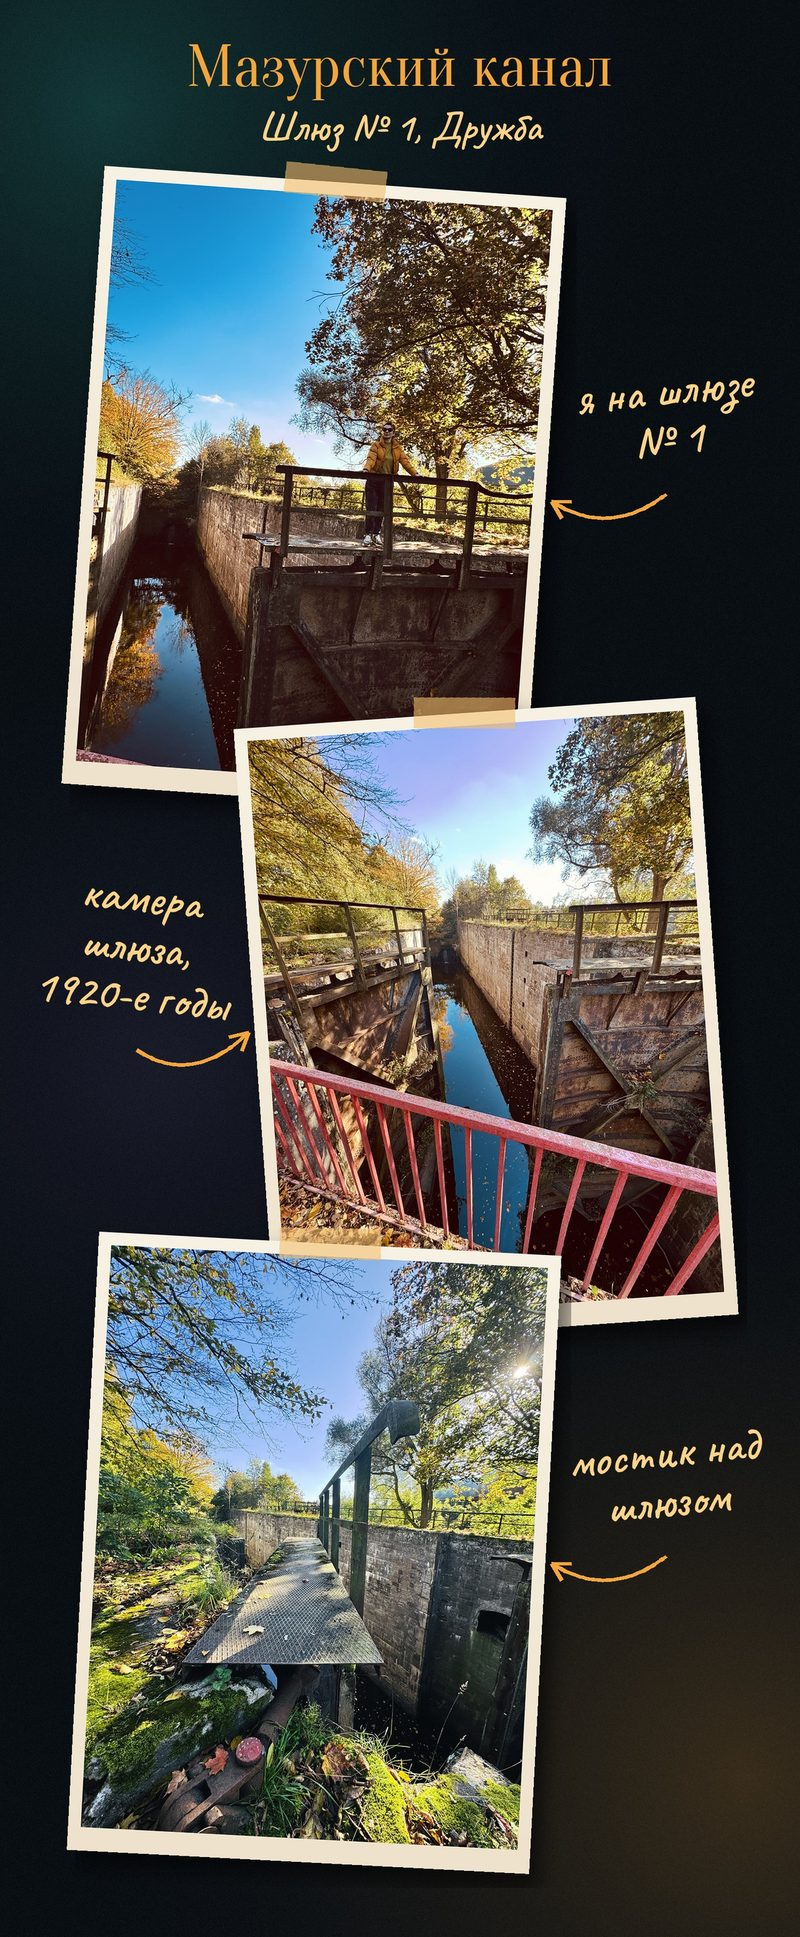
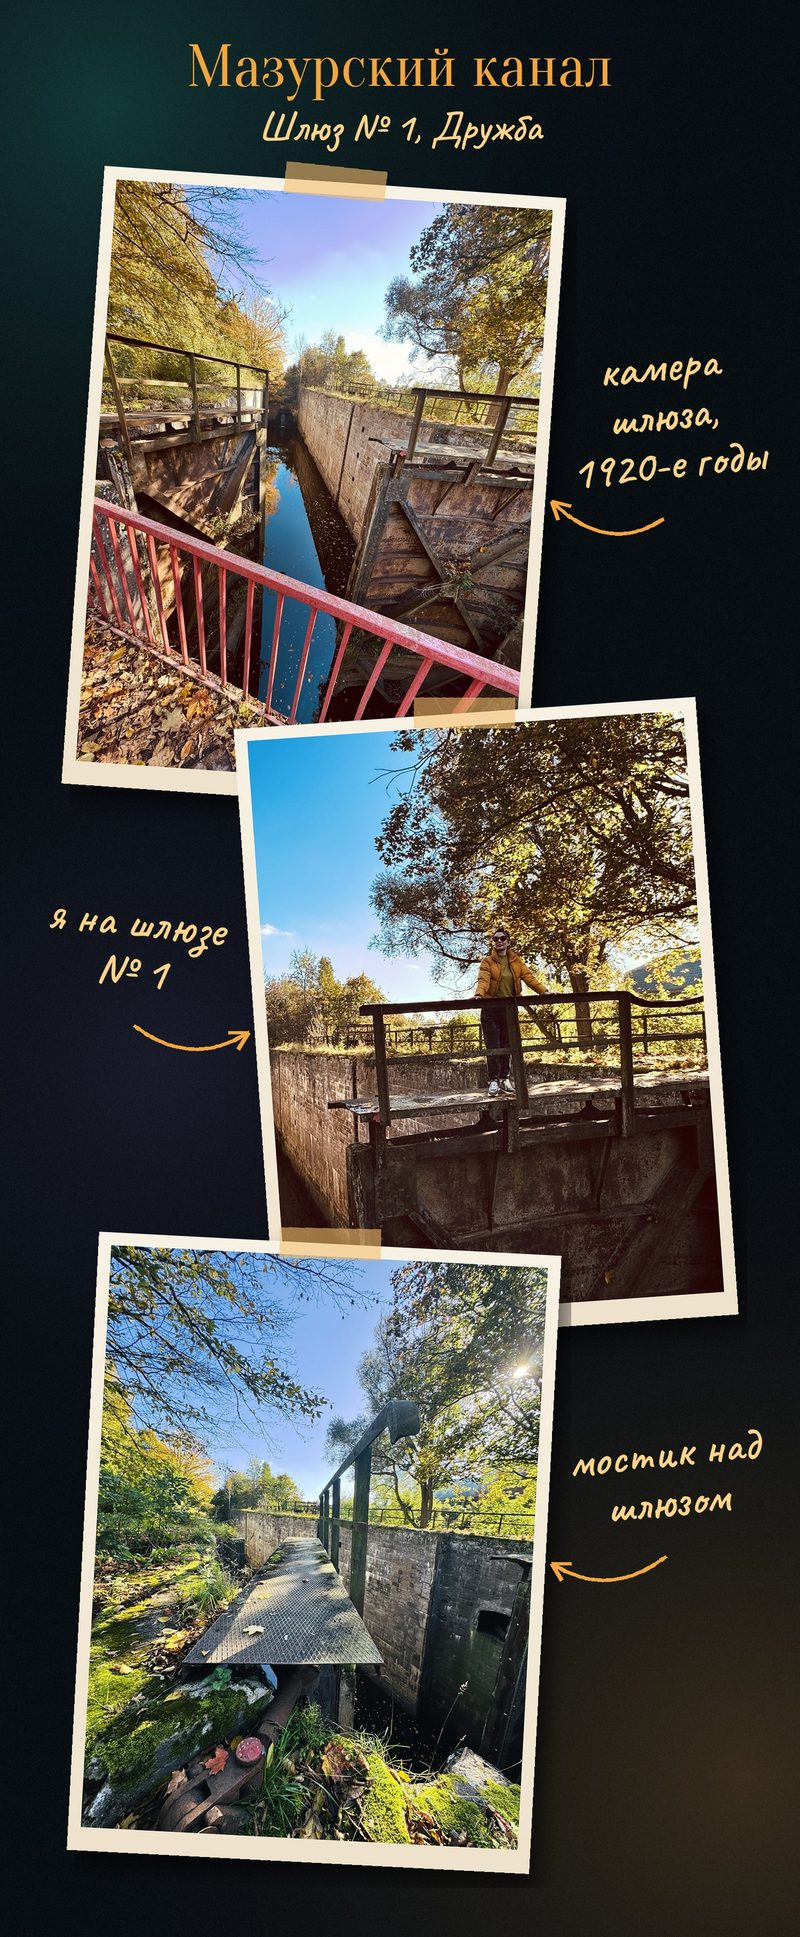
Альбом «Калининград»: 6 день — «я на шлюзе № 1» в центре страницы
Страница «Мазурский канал» пересобрана: сверху камера шлюза, в центре я на
шлюзе (кадр чуть приближен, чтобы было лучше видно), снизу мостик; ?v=2.

Claude-Session: https://claude.ai/code/session_01BUmNQ2Kk9fTi5P6tnA3gYJ

Changed region(s): [[0.0625, 0.0929, 0.9688, 0.6815]]

diff --git a/kaliningrad/album/index.html b/kaliningrad/album/index.html
@@ -827,7 +827,7 @@ body.picking .wrap{padding-bottom:calc(var(--nav-h) + 230px + env(safe-area-inse
  {"id": "d6-06", "day": 6, "src": "photos/d6-06.jpg", "thumb": "photos/t/d6-06.jpg", "w": 1200, "h": 2906, "title": "Старые улочки", "date": "2026-10-16", "collage": true},
  {"id": "d6-07", "day": 6, "src": "photos/d6-07.jpg", "thumb": "photos/t/d6-07.jpg", "w": 1200, "h": 2906, "title": "Вся наша группа", "date": "2026-10-16", "collage": true},
  {"id": "d6-09", "day": 6, "src": "photos/d6-09.jpg", "thumb": "photos/t/d6-09.jpg", "w": 1200, "h": 1955, "title": "Осенний портрет", "date": "2026-10-16", "collage": true},
- {"id": "d6-10", "day": 6, "src": "photos/d6-10.jpg", "thumb": "photos/t/d6-10.jpg", "w": 1200, "h": 2906, "place": "mazur", "title": "Мазурский канал", "date": "2026-10-16", "collage": true},
+ {"id": "d6-10", "day": 6, "src": "photos/d6-10.jpg?v=2", "thumb": "photos/t/d6-10.jpg?v=2", "w": 1200, "h": 2906, "place": "mazur", "title": "Мазурский канал", "date": "2026-10-16", "collage": true},
  {"id": "d6-11", "day": 6, "src": "photos/d6-11.jpg", "thumb": "photos/t/d6-11.jpg", "w": 1200, "h": 1931, "place": "mazur", "title": "История канала", "date": "2026-10-16", "collage": true},
  {"id": "d6-12", "day": 6, "src": "photos/d6-12.jpg", "thumb": "photos/t/d6-12.jpg", "w": 1200, "h": 2397, "town": "kgd", "title": "Наша группа", "date": "2026-10-16", "collage": true},
  {"id": "d6-13", "day": 6, "src": "photos/d6-13.jpg", "thumb": "photos/t/d6-13.jpg", "w": 1200, "h": 2501, "title": "На качелях", "date": "2026-10-16", "collage": true},
